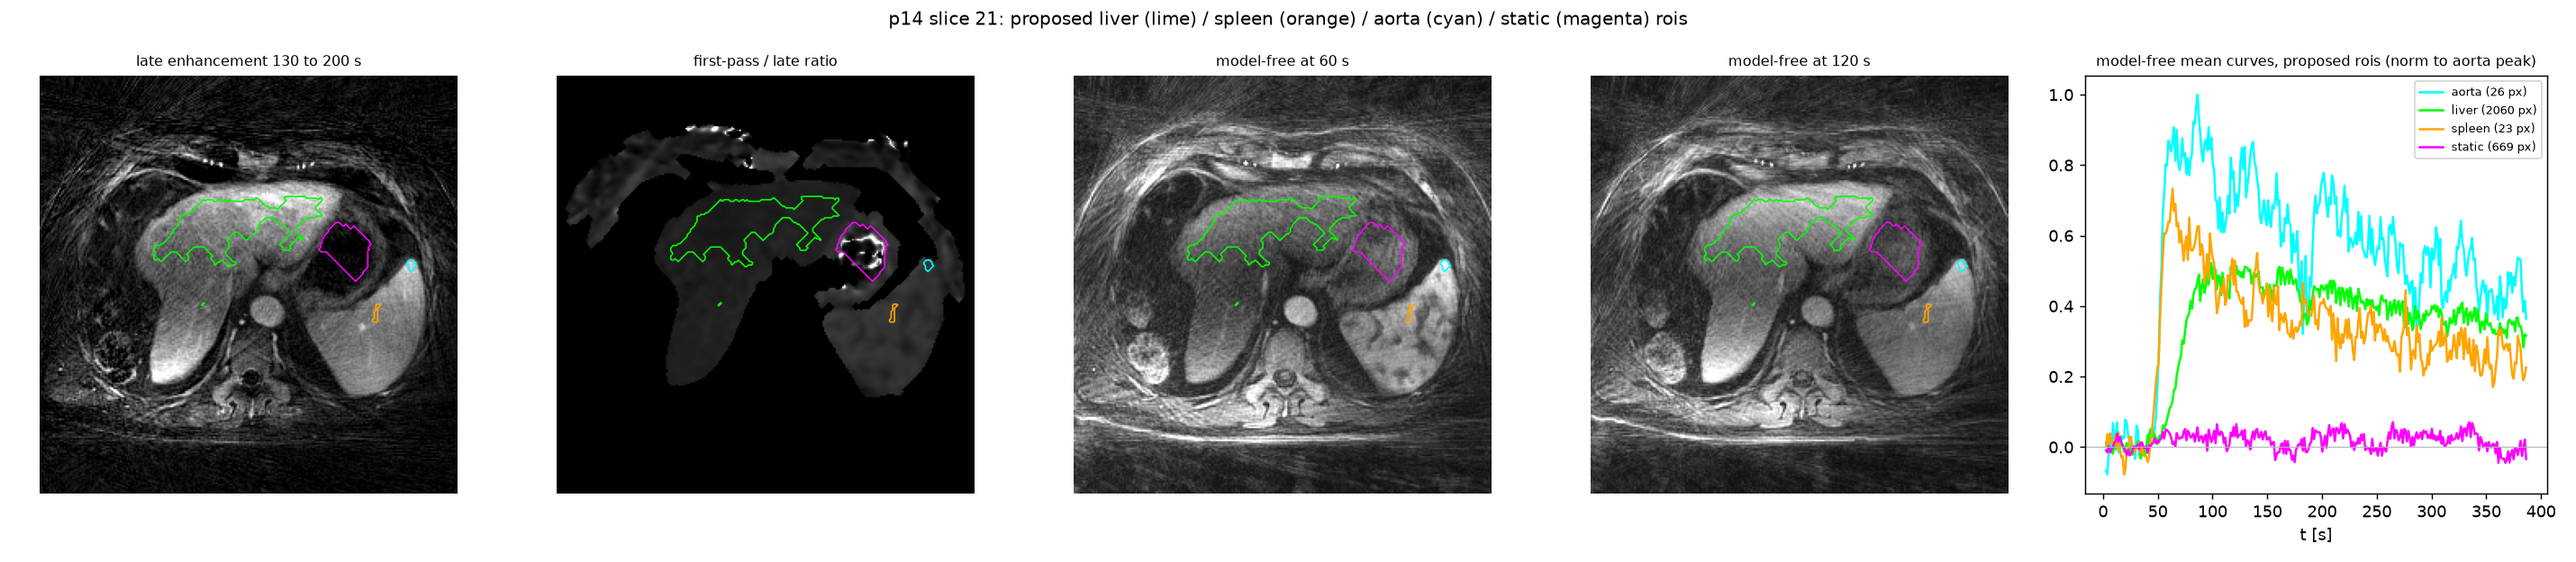
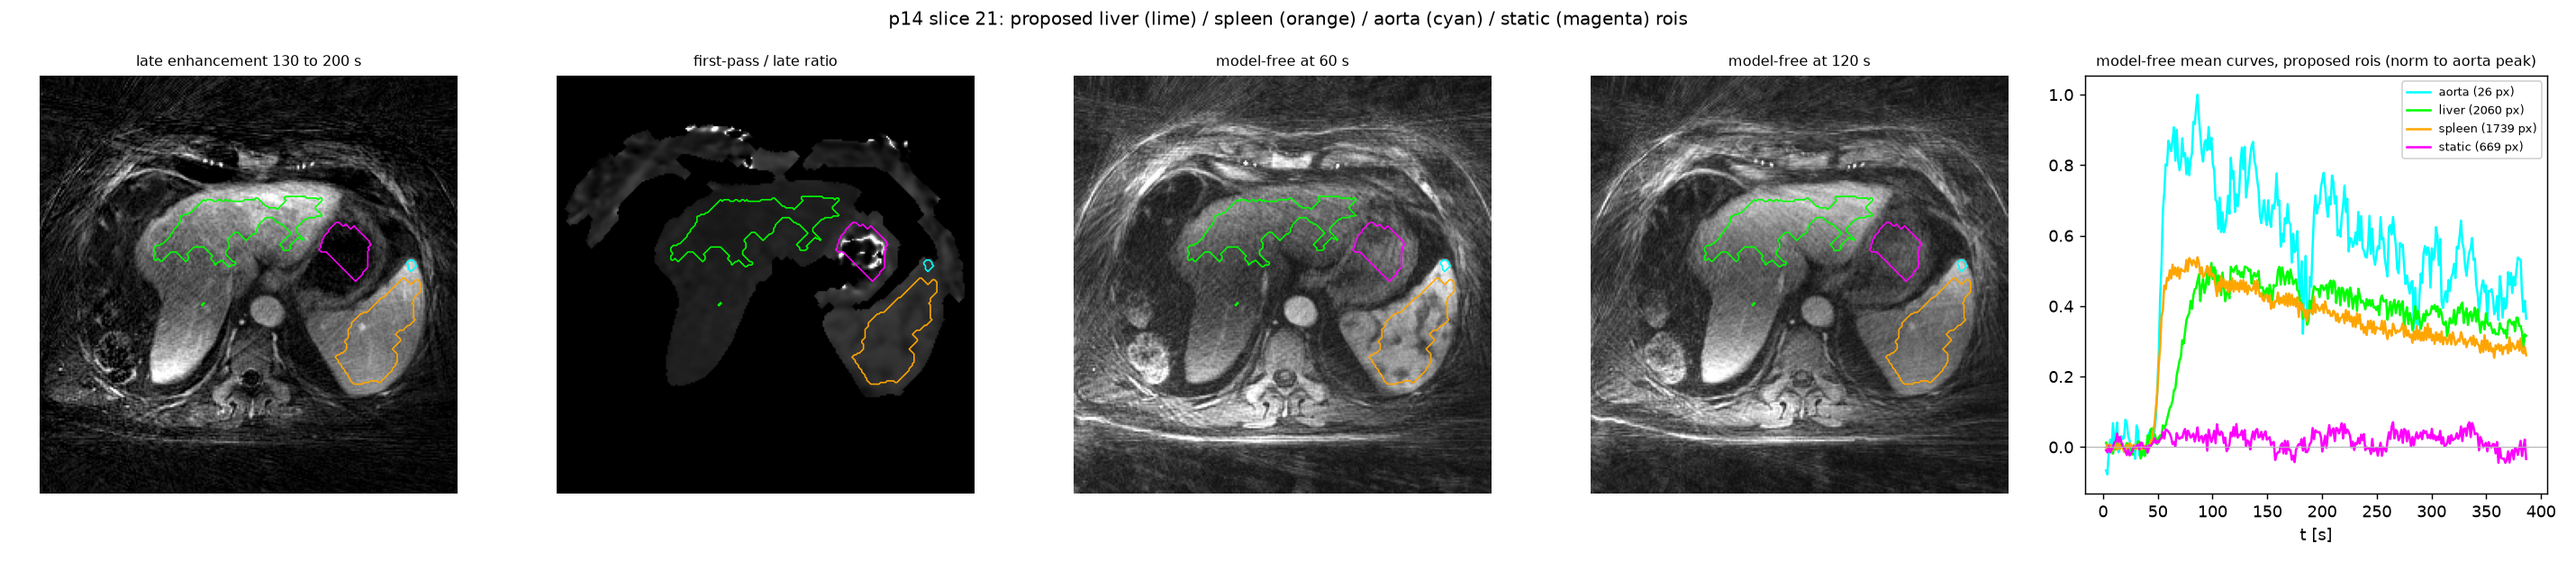
agent 2026-09-24 22:35 worker01.cluster: 8 files

Changed region(s): [[0.8402, 0.3958, 0.9958, 0.6699], [0.9336, 0.1522, 0.9958, 0.274], [0.8091, 0.7612, 0.8402, 0.8221]]

diff --git a/jobs/agent/status.md b/jobs/agent/status.md
@@ -1,21 +1,20 @@
 # helios agent
 
-updated 2026-09-24 22:33:39 on worker01.cluster, job 3372168, cycle 132
+updated 2026-09-24 22:35:44 on worker01.cluster, job 3372168, cycle 133
 
 ## active
 
 | jid | script | state |
 |---|---|---|
-| 3374298 | 071_p14_prep_24_27 | 1 PENDING None |
-| 3374299 | 072_roi_p14_sl21 | 1 PENDING Priority |
+| 3374298 | 071_p14_prep_24_27 | 2 RUNNING None |
 
 ## done (last 20)
 
 | name | state |
 |---|---|
-| 072_roi_p14_sl21 | 1 PENDING Priority |
+| 071_p14_prep_24_27 | 2 RUNNING None |
+| 072_roi_p14_sl21 | 1 COMPLETED 00:00:38 |
 | 022_dce_data_mount | exit 0 |
-| 071_p14_prep_24_27 | 1 PENDING None |
 | 070_p14_prep_array | 1 COMPLETED 00:00:09, 1 COMPLETED 00:00:11, 1 COMPLETED 00:21:01 |
 | 067_p14_prep | 1 CANCELLED+ 02:35:24 |
 | 021_cancel_067 | exit 0 |

diff --git a/results/realdata_nik_vs_cs_figures/rois_proposed_p14.md b/results/realdata_nik_vs_cs_figures/rois_proposed_p14.md
@@ -1,0 +1,5 @@
+# proposed liver / spleen rois (for approval; nothing uses them yet)
+
+| slice | liver px | spleen px | aorta px | static px | liver ttp s / plateau | spleen ttp s / plateau |
+|---|---|---|---|---|---|---|
+| 21 | 2060 | 1739 | 26 | 669 | 99 / 0.70 | 86 / 0.57 |
